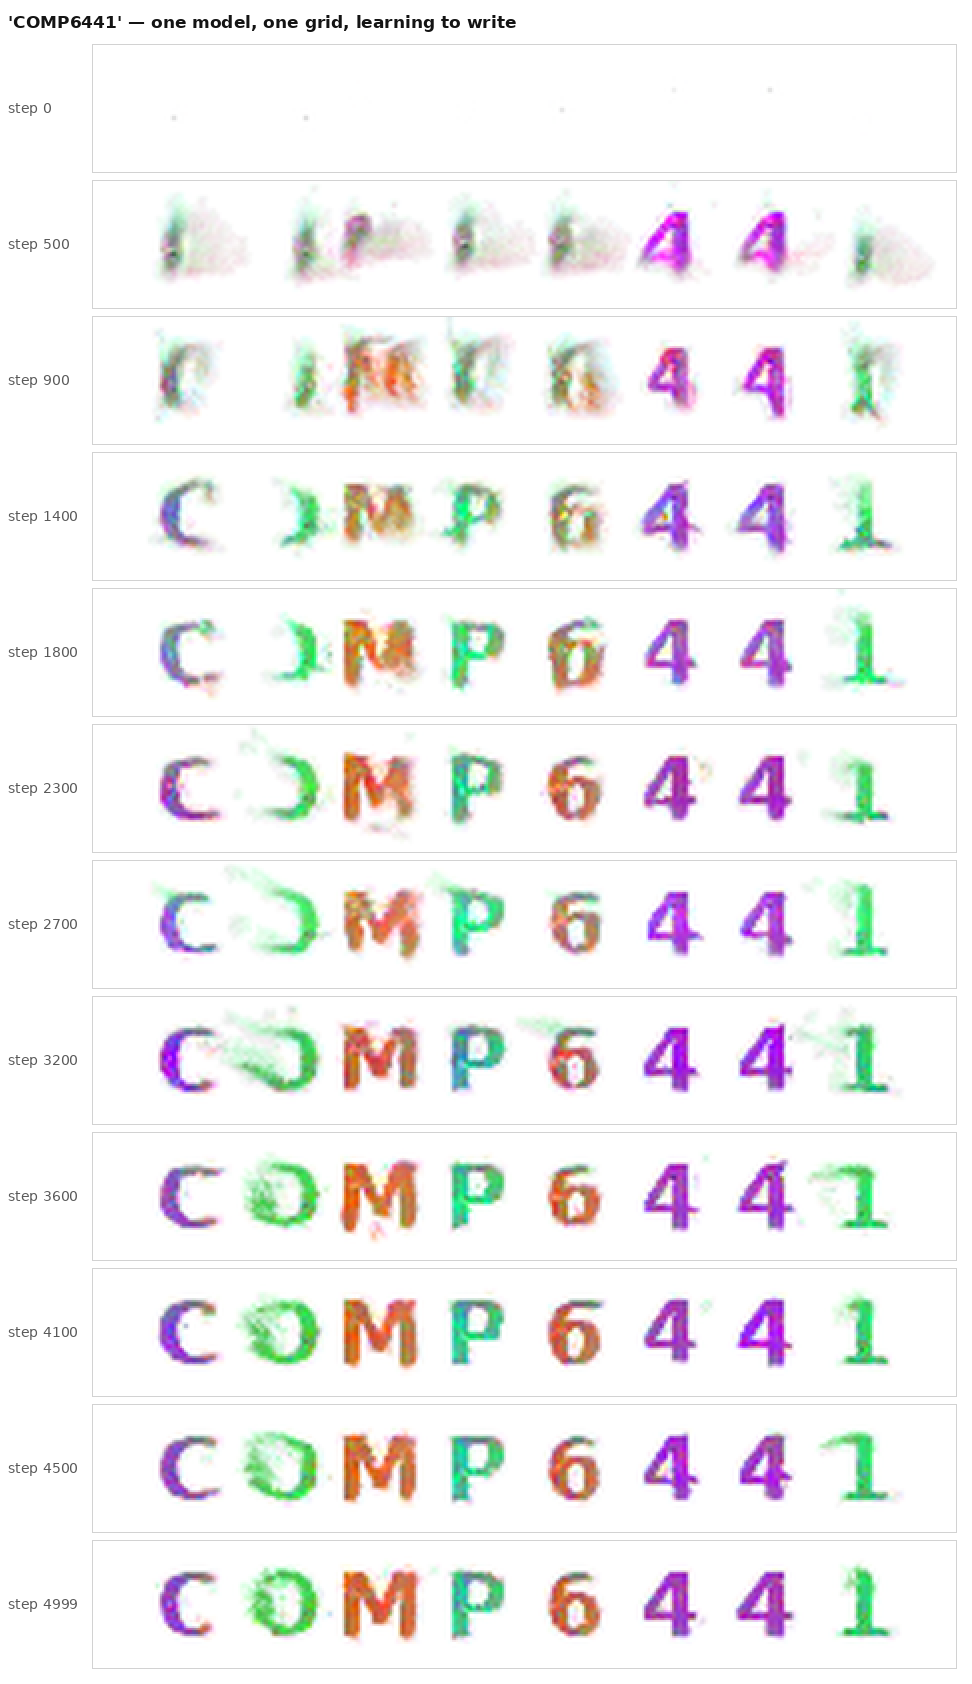
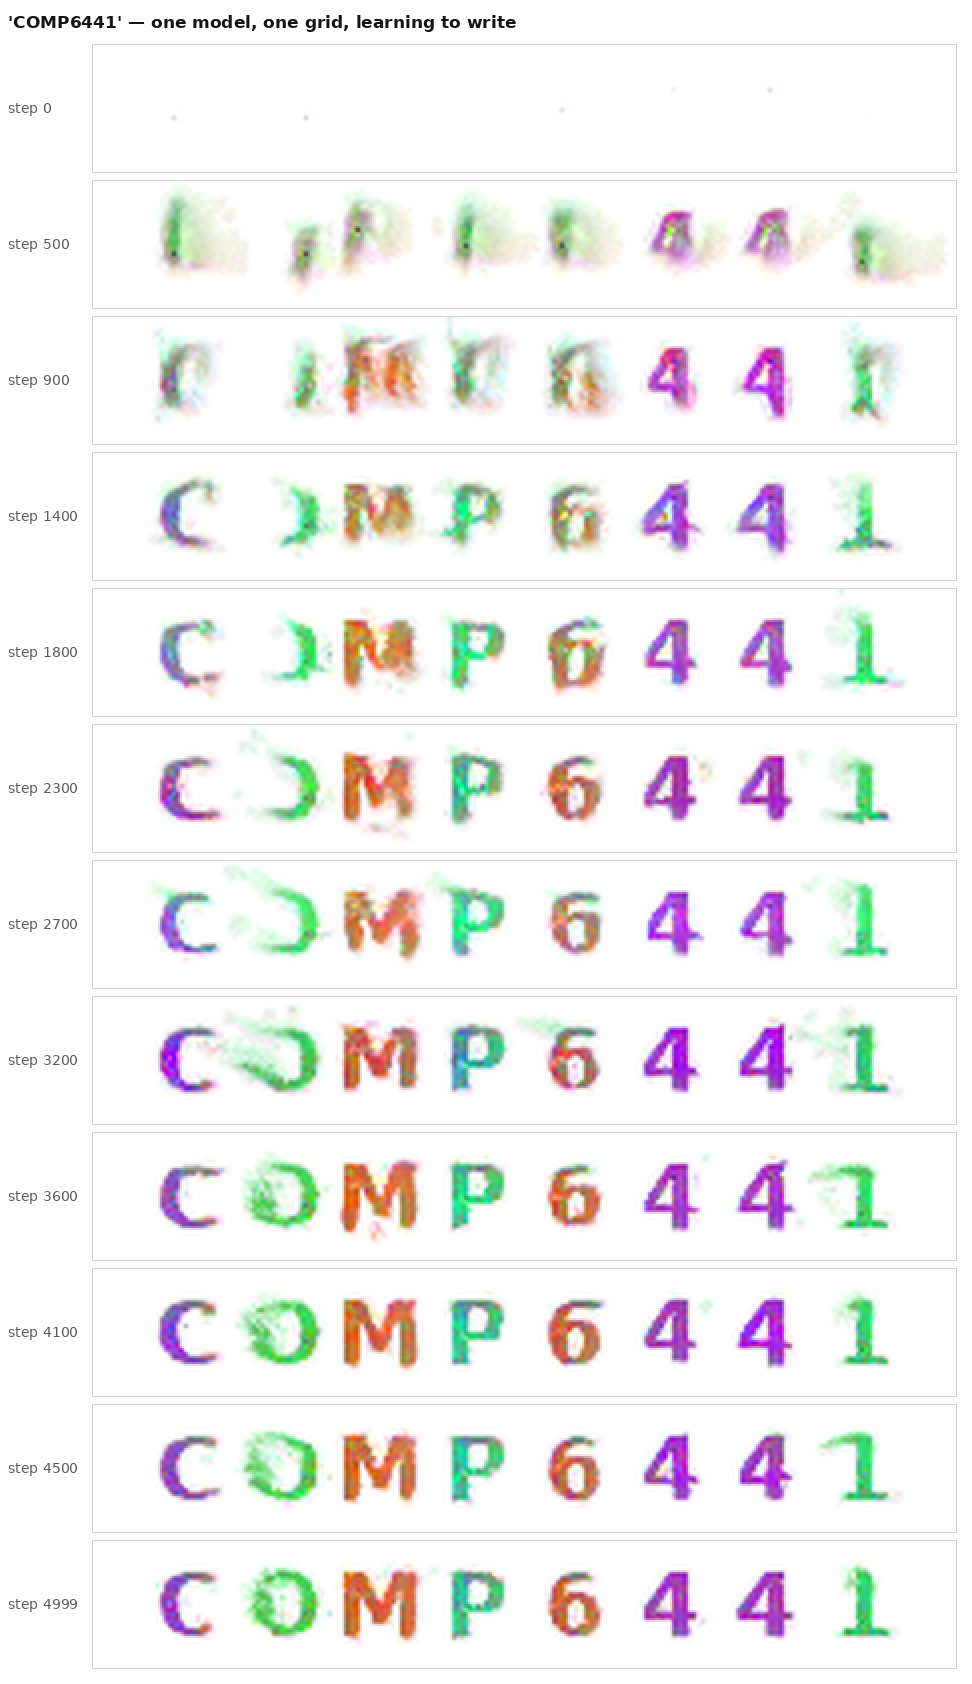
training progress: COMP6441 @ step 4999
Claude-Session: https://claude.ai/code/session_01USN6buEBYoEF7qh9QWEjHQ

diff --git a/docs/lecture.html b/docs/lecture.html
@@ -1,111 +1,39 @@
 <!doctype html>
-<html lang="en" data-theme="dark">
+<html lang="en">
 <head>
 <meta charset="utf-8">
 <meta name="viewport" content="width=device-width, initial-scale=1">
-<title>Growing Text — Lecture Mode</title>
-<meta name="description" content="Full-screen presenter view: one neural cellular automaton grows a whole string, paced to the length of your talk.">
+<title>COMP6441 — Growing Neural Cellular Automata</title>
+<meta name="description" content="One neural cellular automaton grows a whole string from seed cells. Wound it and it grows back.">
 <link rel="stylesheet" href="lecture.css">
 </head>
 <body>
 
-<main id="stage" aria-label="Neural cellular automaton growth stage">
+<main id="stage">
   <div id="paper">
-    <canvas id="ca-canvas" width="1" height="1"
-            aria-label="Growing neural cellular automaton"></canvas>
+    <canvas id="canvas" aria-label="A string growing from seed cells"></canvas>
   </div>
+  <p id="error" hidden></p>
 </main>
 
-<div id="error" hidden role="alert">
-  <h1>Nothing to grow</h1>
-  <p id="error-msg"></p>
-  <p class="error-hint">Serve this page from the <code>docs/</code> root so that
-     <code>weights/index.json</code> and <code>weights/word_&lt;TEXT&gt;.json</code> resolve.</p>
+<div id="controls">
+  <button id="play" class="primary">Play</button>
+  <button id="reset">Reset</button>
+  <button id="damage">Damage</button>
+
+  <label class="speed">
+    <span>speed</span>
+    <input id="speed" type="range" min="0" max="100" value="28">
+    <span id="speed-label" class="mono"></span>
+  </label>
+
+  <span id="status" class="mono">loading…</span>
 </div>
 
-<!-- Chrome: everything below auto-hides after ~3s of stillness -->
-<div id="chrome">
-
-  <div id="status" aria-live="off">
-    <span id="st-model">loading…</span>
-    <span class="sep">·</span>
-    <span id="st-step">step 0 / 120</span>
-    <span class="sep">·</span>
-    <span id="st-pct">0%</span>
-    <span class="sep">·</span>
-    <span id="st-engine" title="Compute backend">—</span>
-  </div>
-
-  <div id="help" role="dialog" aria-label="Keyboard shortcuts">
-    <div class="help-head">
-      <strong>Presenter keys</strong>
-      <button id="help-close" type="button" aria-label="Dismiss help">×</button>
-    </div>
-    <dl>
-      <dt>Space</dt><dd>play / pause</dd>
-      <dt>R</dt><dd>reset to seeds</dd>
-      <dt>← / →</dt><dd>step back / forward</dd>
-      <dt>D</dt><dd>damage a random spot</dd>
-      <dt>F</dt><dd>fullscreen</dd>
-      <dt>H</dt><dd>toggle this help</dd>
-      <dt>T</dt><dd>light / dark</dd>
-      <dt>click / drag</dt><dd>damage the canvas</dd>
-    </dl>
-    <p class="help-note">Controls fade after 3&nbsp;s of stillness. Move the mouse to bring them back.</p>
-  </div>
-
-  <div id="bar">
-    <div id="timeline" role="slider" aria-label="Growth timeline"
-         aria-valuemin="0" aria-valuemax="120" aria-valuenow="0" tabindex="0">
-      <div id="tl-fill"></div>
-      <div id="tl-knob"></div>
-    </div>
-
-    <div id="controls">
-      <button id="btn-play" type="button" class="primary">▶ Play</button>
-      <button id="btn-reset" type="button">Reset</button>
-      <button id="btn-back" type="button" title="Step back (←)">◀︎</button>
-      <button id="btn-fwd" type="button" title="Step forward (→)">▶︎</button>
-      <button id="btn-damage" type="button" title="Damage a random spot (D)">Damage</button>
-
-      <span class="spacer"></span>
-
-      <label class="field">
-        <span>Mode</span>
-        <select id="mode">
-          <option value="duration" selected>Duration</option>
-          <option value="free">Free run</option>
-        </select>
-      </label>
-
-      <label class="field" id="field-duration">
-        <span>Grow over</span>
-        <select id="duration">
-          <option value="1">1 min</option>
-          <option value="2">2 min</option>
-          <option value="5">5 min</option>
-          <option value="10">10 min</option>
-          <option value="20" selected>20 min</option>
-          <option value="30">30 min</option>
-          <option value="45">45 min</option>
-          <option value="60">60 min</option>
-        </select>
-      </label>
-
-      <label class="field" id="field-speed" hidden>
-        <span>Speed</span>
-        <input id="speed" type="range" min="1" max="30" step="1" value="10">
-        <output id="speed-label">10/s</output>
-      </label>
-
-      <span class="spacer"></span>
-
-      <button id="btn-theme" type="button" title="Light / dark (T)">Light</button>
-      <button id="btn-full" type="button" title="Fullscreen (F)">⛶ Full</button>
-      <button id="btn-help" type="button" title="Help (H)">?</button>
-    </div>
-  </div>
-</div>
+<p id="hint">
+  <b>Click or drag on the letters</b> to wound them &mdash; they grow back.
+  <span class="keys">space play/pause &middot; R reset &middot; D damage &middot; F fullscreen</span>
+</p>
 
 <script type="module" src="lecture.js"></script>
 </body>